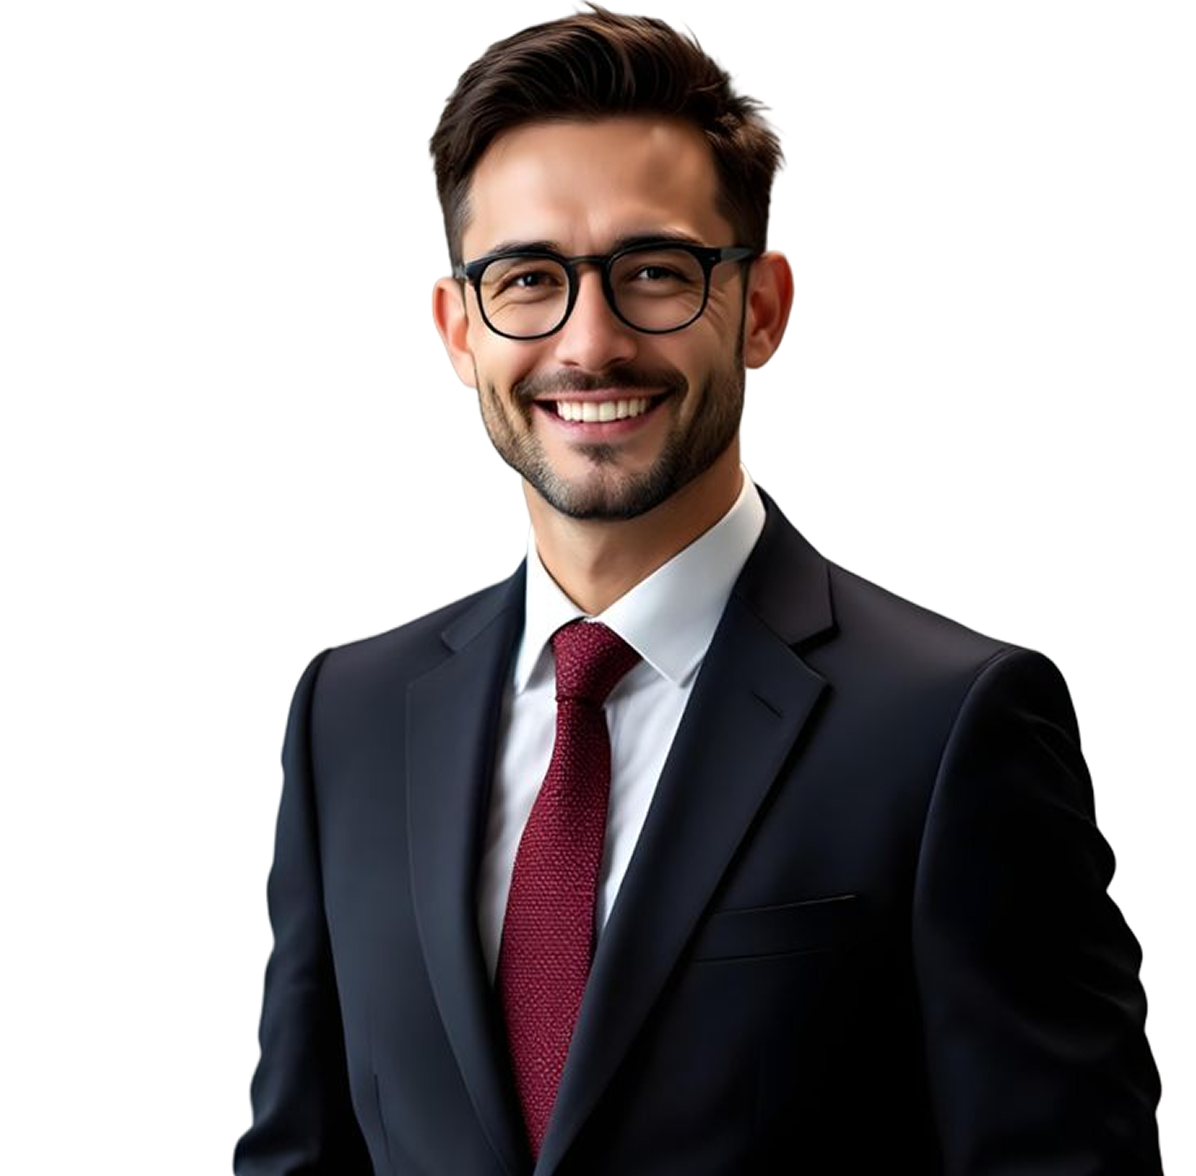
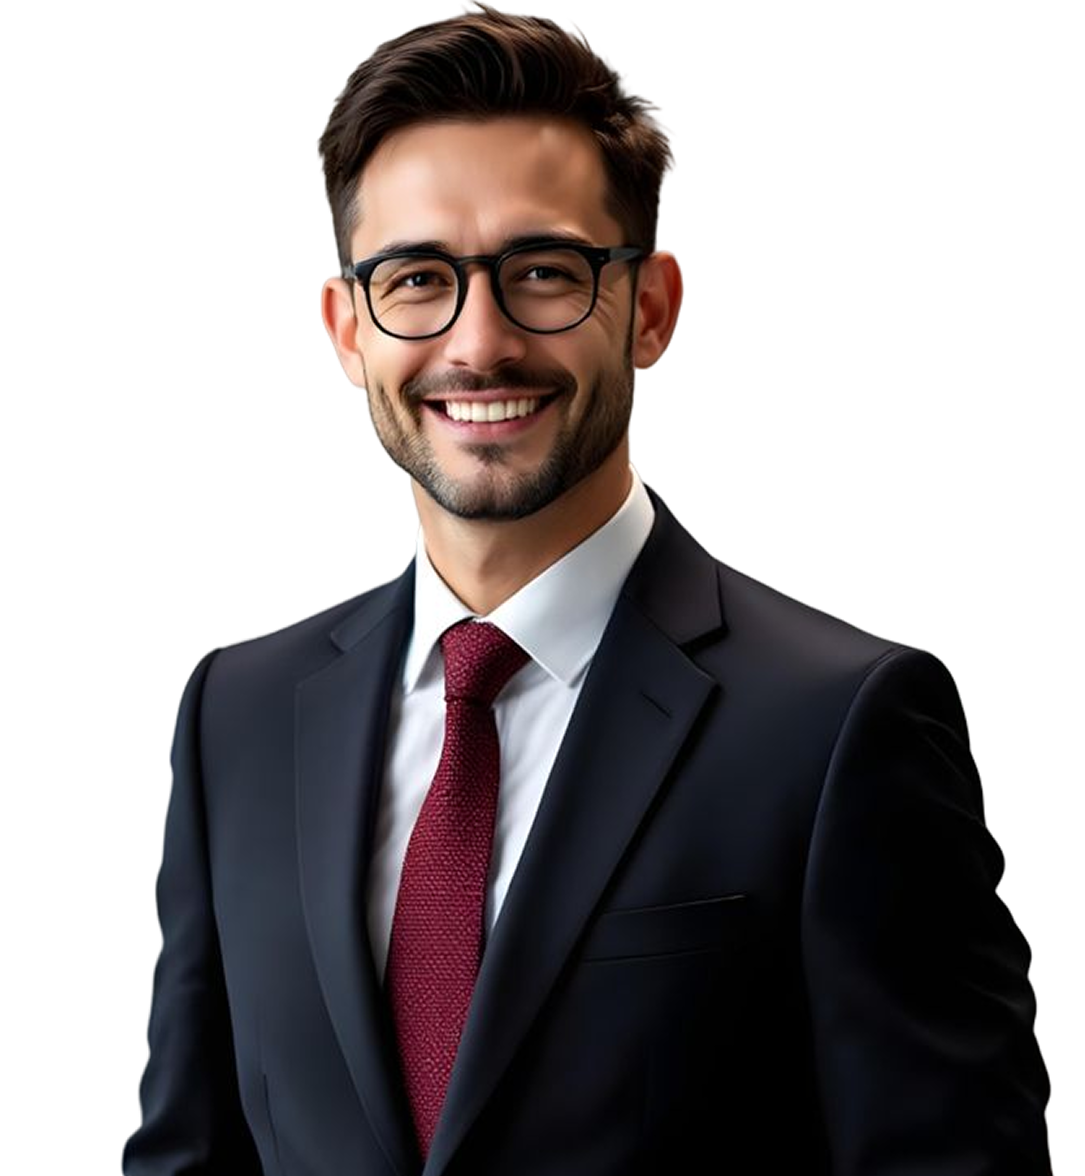
test8

Changed region(s): [[0.0912, 0.0, 0.9429, 1.0], [0.9429, 0.7959, 0.9733, 1.0], [0.73, 0.6429, 0.7908, 0.7653]]

diff --git a/src/sections/industries/FeaturedIndustryExpertise.tsx b/src/sections/industries/FeaturedIndustryExpertise.tsx
@@ -5,6 +5,14 @@ import Link from 'next/link';
 import { ArrowUpRight, CheckCircle2 } from 'lucide-react';
 import Image from 'next/image';
 
+import ind1 from '@/assets/Industries/Core Specialization/Rectangle 10.png';
+import ind2 from '@/assets/Industries/Core Specialization/Rectangle 11.png';
+import ind3 from '@/assets/Industries/Core Specialization/Rectangle 12.png';
+import ind4 from '@/assets/Industries/Core Specialization/Rectangle 13.png';
+import ind5 from '@/assets/Industries/Core Specialization/Rectangle 14.png';
+import ind6 from '@/assets/Industries/Core Specialization/Rectangle 4.png';
+import ind7 from '@/assets/Industries/054db1d0aa863f2fcfd4eca91957a21c 1.png';
+
 const INDUSTRIES_LIST = [
   {
     id: 'it-technology',
@@ -12,7 +20,7 @@ const INDUSTRIES_LIST = [
     desc: 'Driving digital transformation with elite software engineers and full-stack technical specialists.',
     areas: ['Software Engineering', 'Cloud & DevOps', 'Cybersecurity Ops', 'Data & AI Systems'],
     challenges: ['Severe senior talent scarcity', 'Rapidly evolving frameworks'],
-    image: 'https://images.unsplash.com/photo-1518770660439-4636190af475?q=80&w=800&auto=format&fit=crop',
+    image: ind1,
     href: '/industries/it-technology'
   },
   {
@@ -21,7 +29,7 @@ const INDUSTRIES_LIST = [
     desc: 'Scaling global connectivity with expert engineers for 5G, network, and satellite infrastructure.',
     areas: ['5G Rollouts', 'Network Security', 'Satellite Comms', 'Wireless Infrastructure'],
     challenges: ['High capital investment risk', 'Complex global standard shifts'],
-    image: 'https://images.unsplash.com/photo-1544197150-b99a580bb7a8?q=80&w=800&auto=format&fit=crop',
+    image: ind2,
     href: '/industries/telecommunications'
   },
   {
@@ -30,7 +38,7 @@ const INDUSTRIES_LIST = [
     desc: 'Supporting large-scale engineering, civil, industrial, and technical workforce requirements.',
     areas: ['Civil Engineering', 'Industrial Operations', 'Project Management', 'Structural Design'],
     challenges: ['Complex safety regulations', 'Cross-border logistics'],
-    image: 'https://images.unsplash.com/photo-1581092160607-ee22621dd758?q=80&w=800&auto=format&fit=crop',
+    image: ind3,
     href: '/industries/engineering-infrastructure'
   },
   {
@@ -39,7 +47,7 @@ const INDUSTRIES_LIST = [
     desc: 'Connecting businesses with talent across digital platforms, content, and technology ecosystems.',
     areas: ['Digital Platforms', 'Content Production', 'Broadcast Systems', 'Creative Design'],
     challenges: ['Monetization complexity', 'Rapid content scaling needs'],
-    image: 'https://images.unsplash.com/photo-1533750516457-a7f992034fec?q=80&w=800&auto=format&fit=crop',
+    image: ind4,
     href: '/industries/media-digital-services'
   },
   {
@@ -48,7 +56,7 @@ const INDUSTRIES_LIST = [
     desc: 'Strategic talent acquisition for global financial institutions, fintech, and regulatory compliance.',
     areas: ['Fintech Engineering', 'Risk & Compliance', 'Investment Operations', 'Core Banking Tech'],
     challenges: ['Severe security vulnerabilities', 'Complex regulatory audit checks'],
-    image: 'https://images.unsplash.com/photo-1560472355-536de3962603?q=80&w=800&auto=format&fit=crop',
+    image: ind5,
     href: '/industries/banking-finance'
   },
   {
@@ -57,7 +65,7 @@ const INDUSTRIES_LIST = [
     desc: 'Providing critical expertise for clinical research, pharmaceutical development, and healthcare admin.',
     areas: ['Clinical Research', 'Pharma Operations', 'Biotech Development', 'Healthcare Admin'],
     challenges: ['High-risk medical compliance', 'Extremely long vetting cycles'],
-    image: 'https://images.unsplash.com/photo-1576091160550-2173dba999ef?q=80&w=800&auto=format&fit=crop',
+    image: ind6,
     href: '/industries/healthcare-life-sciences'
   },
   {
@@ -66,7 +74,7 @@ const INDUSTRIES_LIST = [
     desc: 'Optimizing the consumer journey with specialists in omnichannel retail and e-commerce platforms.',
     areas: ['Omnichannel Strategy', 'E-commerce Architecture', 'Logistics & Distribution', 'Digital Marketing'],
     challenges: ['Severe demand volatility', 'Fierce platform competition'],
-    image: 'https://images.unsplash.com/photo-1534452203293-494d7ddbf7e0?q=80&w=800&auto=format&fit=crop',
+    image: ind7,
     href: '/industries/retail-ecommerce'
   },
   {
@@ -75,7 +83,7 @@ const INDUSTRIES_LIST = [
     desc: 'Delivering engineering excellence and operational leadership for Industry 4.0 ecosystems.',
     areas: ['Industry 4.0 Systems', 'Process Engineering', 'Operational Leadership', 'Automation & Robotics'],
     challenges: ['Legacy systems bottleneck', 'Technical engineering skill gaps'],
-    image: 'https://images.unsplash.com/photo-1581091226825-a6a2a5aee158?q=80&w=800&auto=format&fit=crop',
+    image: ind1,
     href: '/industries/manufacturing'
   }
 ];

diff --git a/src/sections/industries/WhyBusinessesTrustUs.tsx b/src/sections/industries/WhyBusinessesTrustUs.tsx
@@ -5,40 +5,47 @@ import { ArrowRight } from 'lucide-react';
 import Image from 'next/image';
 import Link from 'next/link';
 
+import adv1 from '@/assets/Industries/The Advantage/815a3a38-d66a-41d4-b8b1-c54146717993 1.png';
+import adv2 from '@/assets/Industries/The Advantage/8edcb80a-f697-4d37-b5c7-d05827ed67be 1.png';
+import adv3 from '@/assets/Industries/The Advantage/8fa7790a-ae9c-4bfa-8dd6-7b2e641d341d 1.png';
+import adv4 from '@/assets/Industries/The Advantage/a49f354a-c505-419b-9f83-cbe98cb75354 1.png';
+import adv5 from '@/assets/Industries/The Advantage/cd7ffe70-633a-431a-bde3-5b6af8499611 1.png';
+import adv6 from '@/assets/Industries/The Advantage/e298c14c-3c28-4c18-98b4-e25b61f2df03 1.png';
+
 const REASONS = [
   { 
     title: 'Multi-Industry Expertise', 
-    image: '/whychoose/models.png', 
+    image: adv1, 
     desc: 'Access specialized vertical-market domain experts engineered to navigate distinct industry regulations, operational frameworks, and corporate methodologies.', 
     link: '/industries' 
   },
   { 
     title: 'Scalable Solutions', 
-    image: '/whychoose/scalable.png', 
+    image: adv2, 
     desc: 'Deploy highly agile workforce frameworks, custom contract arrangements, and end-to-end recruitment capabilities designed to match your corporate scaling requirements.', 
     link: '/services' 
   },
   { 
     title: 'Global Support Hubs', 
-    image: '/whychoose/network.png', 
+    image: adv3, 
     desc: 'Leverage state-of-the-art global search capabilities, borderless offshore structures, and compliance frameworks to locate top-tier international specialists.', 
     link: '/about' 
   },
   { 
     title: 'Sector-Specific Hiring', 
-    image: '/whychoose/process.png', 
+    image: adv4, 
     desc: 'Utilize data-driven recruitment metrics, precise technical mapping, and rigorous qualification methodologies to source domain-specific resources and specialists.', 
     link: '/services/permanent-hiring' 
   },
   { 
     title: 'Rapid Talent Delivery', 
-    image: '/whychoose/delivery.png', 
+    image: adv5, 
     desc: 'Accelerate your average time-to-hire using optimized global talent pipelines, digital transformation matching platforms, and rapid response staffing protocols.', 
     link: '/services/temporary-recruitment' 
   },
   { 
     title: 'Long-Term Partnerships', 
-    image: '/whychoose/support.png', 
+    image: adv6, 
     desc: 'Establish reliable partnerships committed to organizational growth, talent retention optimization, and building sustainable C-suite & technical teams.', 
     link: '/contact' 
   }

diff --git a/src/sections/industries/IndustriesOverview.tsx b/src/sections/industries/IndustriesOverview.tsx
@@ -5,30 +5,35 @@ import { Target, BarChart3, ShieldCheck, Zap, ArrowRight } from 'lucide-react';
 import Image from 'next/image';
 import Link from 'next/link';
 
+import insight1 from '@/assets/Industries/Sector Insights/49f4a132-7ab4-41ea-93de-93b959d51e50 1.png';
+import insight2 from '@/assets/Industries/Sector Insights/6e36d0d6-6565-4687-bf3d-dd7f9c496a9b 1.png';
+import insight3 from '@/assets/Industries/Sector Insights/a0ca8f89-9ecc-4c85-94d7-a880fe752de0 1.png';
+import insight4 from '@/assets/Industries/Sector Insights/c0064780-9c65-4a9d-a8b4-93f6577f5f02 1.png';
+
 const INDUSTRY_CARDS = [
   {
     icon: Target,
     title: 'Precision Mapping',
     desc: 'Targeting exact skill sets across complex, specialized industry environments.',
-    image: '/services/contract.png'
+    image: insight1
   },
   {
     icon: BarChart3,
     title: 'Market Analytics',
     desc: 'Leveraging intelligence to navigate competitive global talent landscapes.',
-    image: '/services/permanent.png'
+    image: insight2
   },
   {
     icon: ShieldCheck,
     title: 'Compliance First',
     desc: 'Ensuring rigorous candidate vetting and regulatory adherence.',
-    image: '/services/managed.png'
+    image: insight3
   },
   {
     icon: Zap,
     title: 'Rapid Response',
     desc: 'Accelerated hiring timelines for critical, high-stakes business pivots.',
-    image: '/services/onsite.png'
+    image: insight4
   }
 ];
 

diff --git a/src/sections/services/ClientSuccessApproach.tsx b/src/sections/services/ClientSuccessApproach.tsx
@@ -18,7 +18,7 @@ const PROFILES = [
     height: "h-[380px] md:h-[420px]"
   },
   {
-    name: "Delivery Experts",
+    name: "Delivery Partners",
     role: "Talent Acquisition",
     image: client2,
     bgColor: "bg-[#E53888]",
@@ -30,14 +30,14 @@ const PROFILES = [
     role: "Retention & Growth",
     image: client3,
     bgColor: "bg-[#F88DCD]",
-    textColor: "text-[#1A1A1A]",
+    textColor: "text-white",
     height: "h-[380px] md:h-[420px]"
   }
 ];
 
 export default function ClientSuccessApproach() {
   return (
-    <section className="py-24 relative overflow-hidden bg-[#FAFAFA]">
+    <section className="pt-16 pb-24 relative overflow-hidden bg-[#FAFAFA]">
       {/* Grid Pattern Background */}
       <div 
         className="absolute inset-0 z-0"
@@ -92,7 +92,7 @@ export default function ClientSuccessApproach() {
               whileInView={{ opacity: 1, y: 0 }}
               viewport={{ once: true }}
               transition={{ delay: i * 0.2, duration: 0.6 }}
-              className={`w-full md:w-1/3 ${profile.height} ${profile.bgColor} rounded-t-[100px] md:rounded-t-[160px] pt-12 md:pt-16 px-6 flex flex-col items-center text-center relative overflow-hidden shadow-2xl hover:-translate-y-2 transition-transform duration-500`}
+              className={`w-full md:w-1/3 ${profile.height} ${profile.bgColor} rounded-t-[100px] md:rounded-t-[160px] pt-8 md:pt-10 px-6 flex flex-col items-center text-center relative overflow-hidden shadow-2xl hover:-translate-y-2 transition-transform duration-500`}
             >
               <div className="z-10 relative">
                 <h3 className={`text-xl md:text-2xl font-extrabold uppercase tracking-widest mb-1 ${profile.textColor}`}>{profile.name}</h3>

diff --git a/src/app/industries/page.tsx b/src/app/industries/page.tsx
@@ -1,6 +1,7 @@
 import type { Metadata } from 'next';
 import PageHero from '@/components/PageHero';
 import CTASection from '@/components/CTASection';
+import heroImg from '@/assets/Industries/smiling-female-executive-standing-front-team 1.png';
 import IndustriesOverview from '@/sections/industries/IndustriesOverview';
 import FeaturedIndustryExpertise from '@/sections/industries/FeaturedIndustryExpertise';
 import IndustryRecruitmentSolutions from '@/sections/industries/IndustryRecruitmentSolutions';
@@ -62,7 +63,7 @@ export default function IndustriesPage() {
           ctaHref="#featured"
           secondaryLabel="Talk To Our Team"
           secondaryHref="/contact"
-          imageSrc="/hero-industries.png"
+          imageSrc={heroImg}
           imageAlt="Multi-industry business team meeting"
         />
       </section>